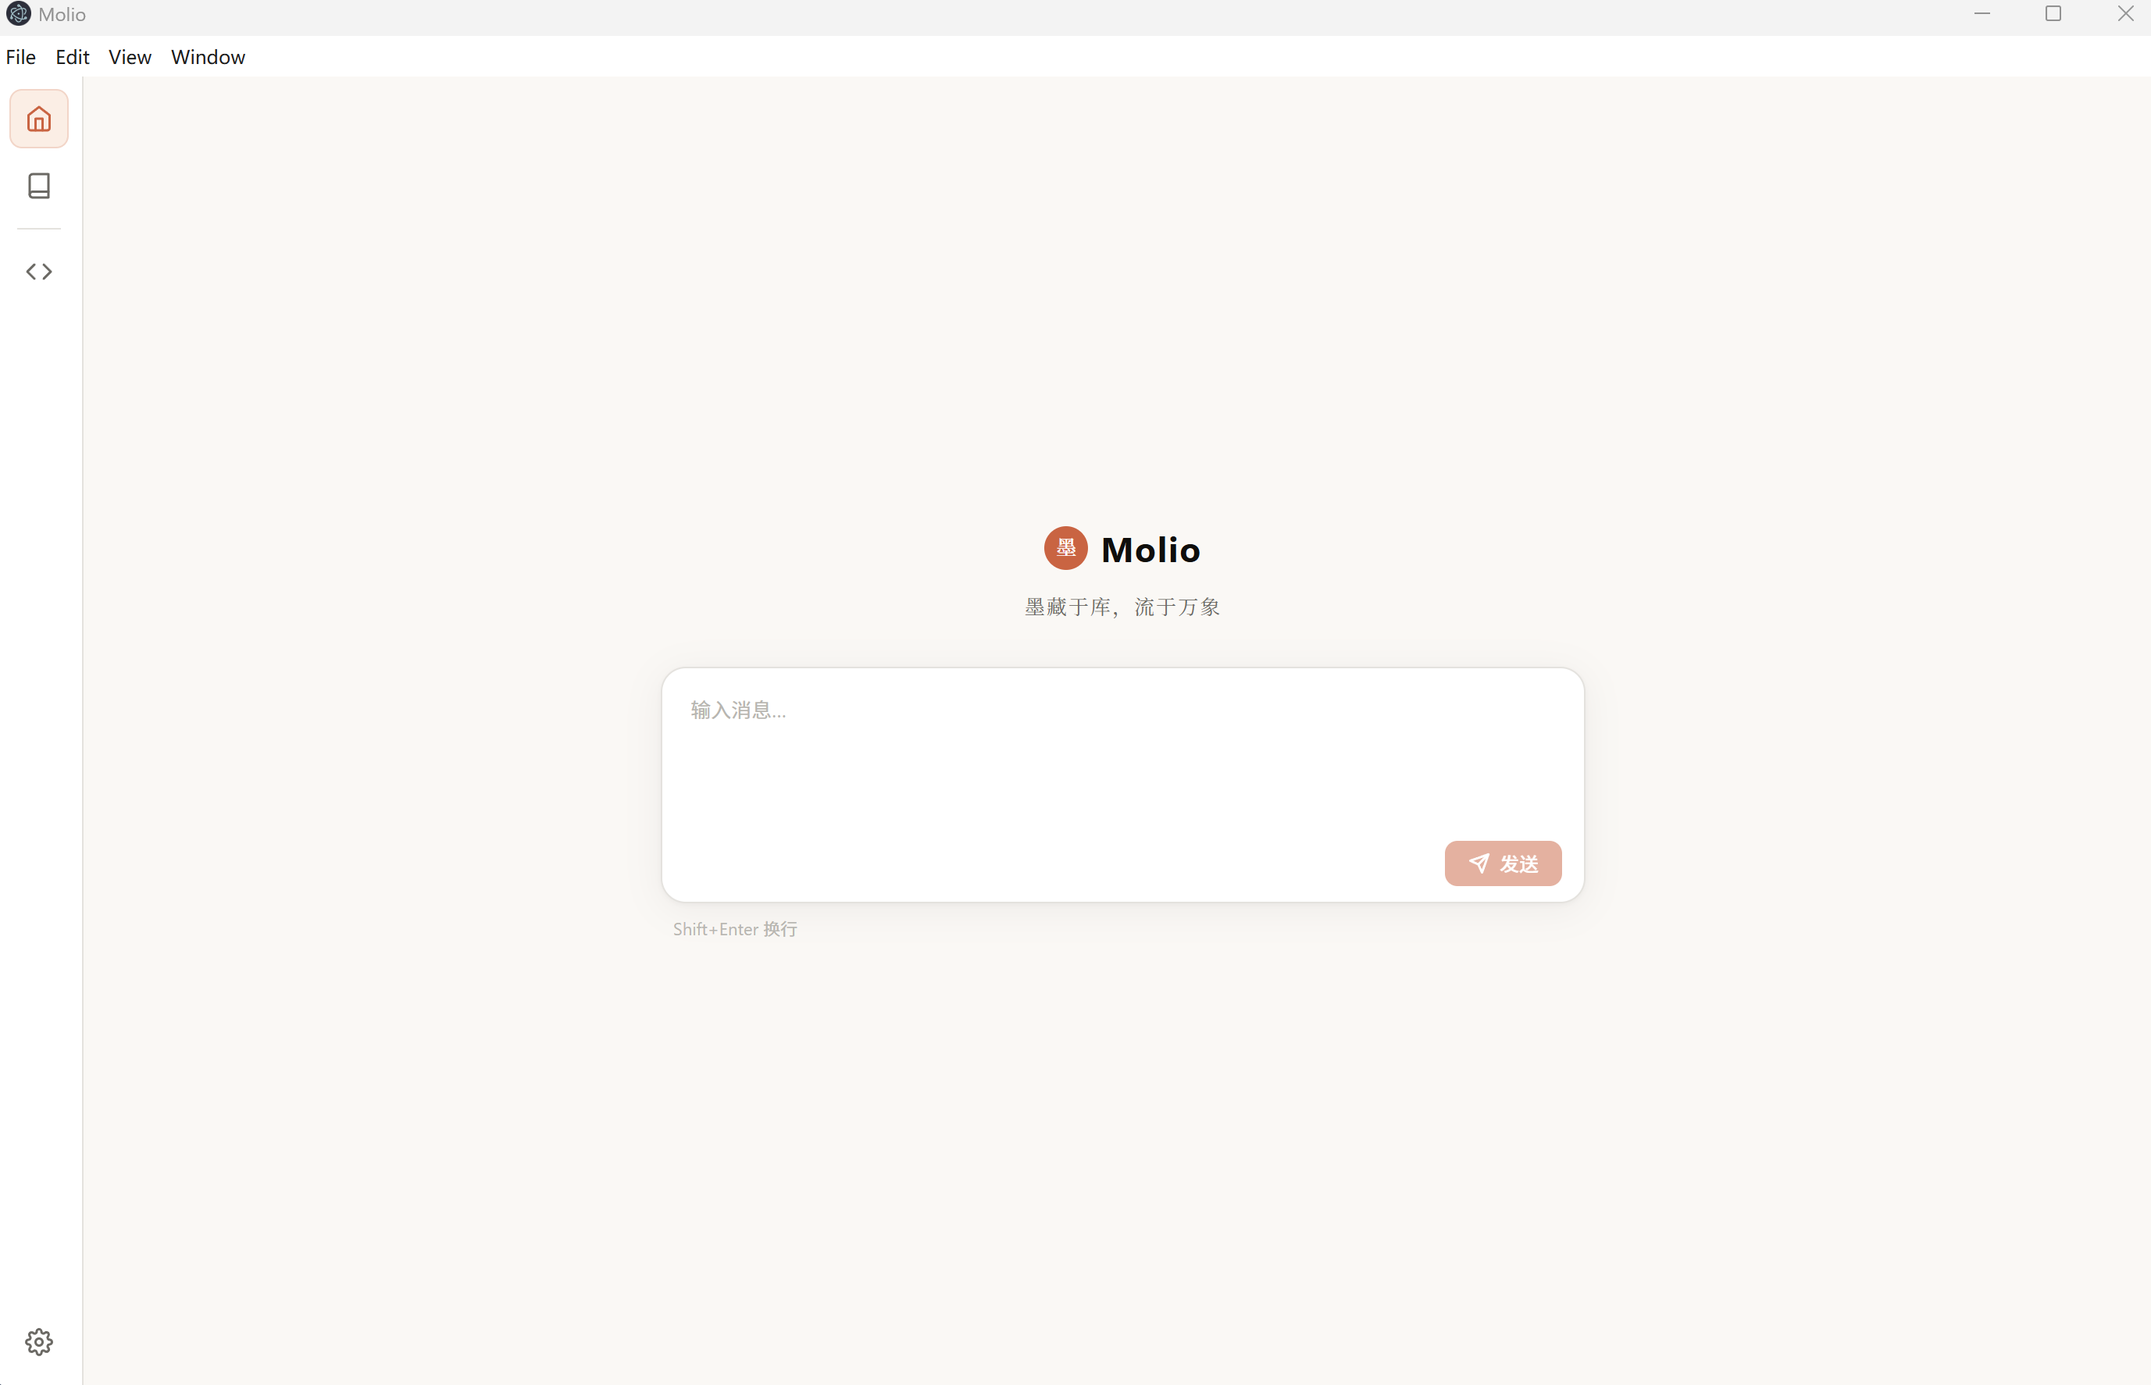
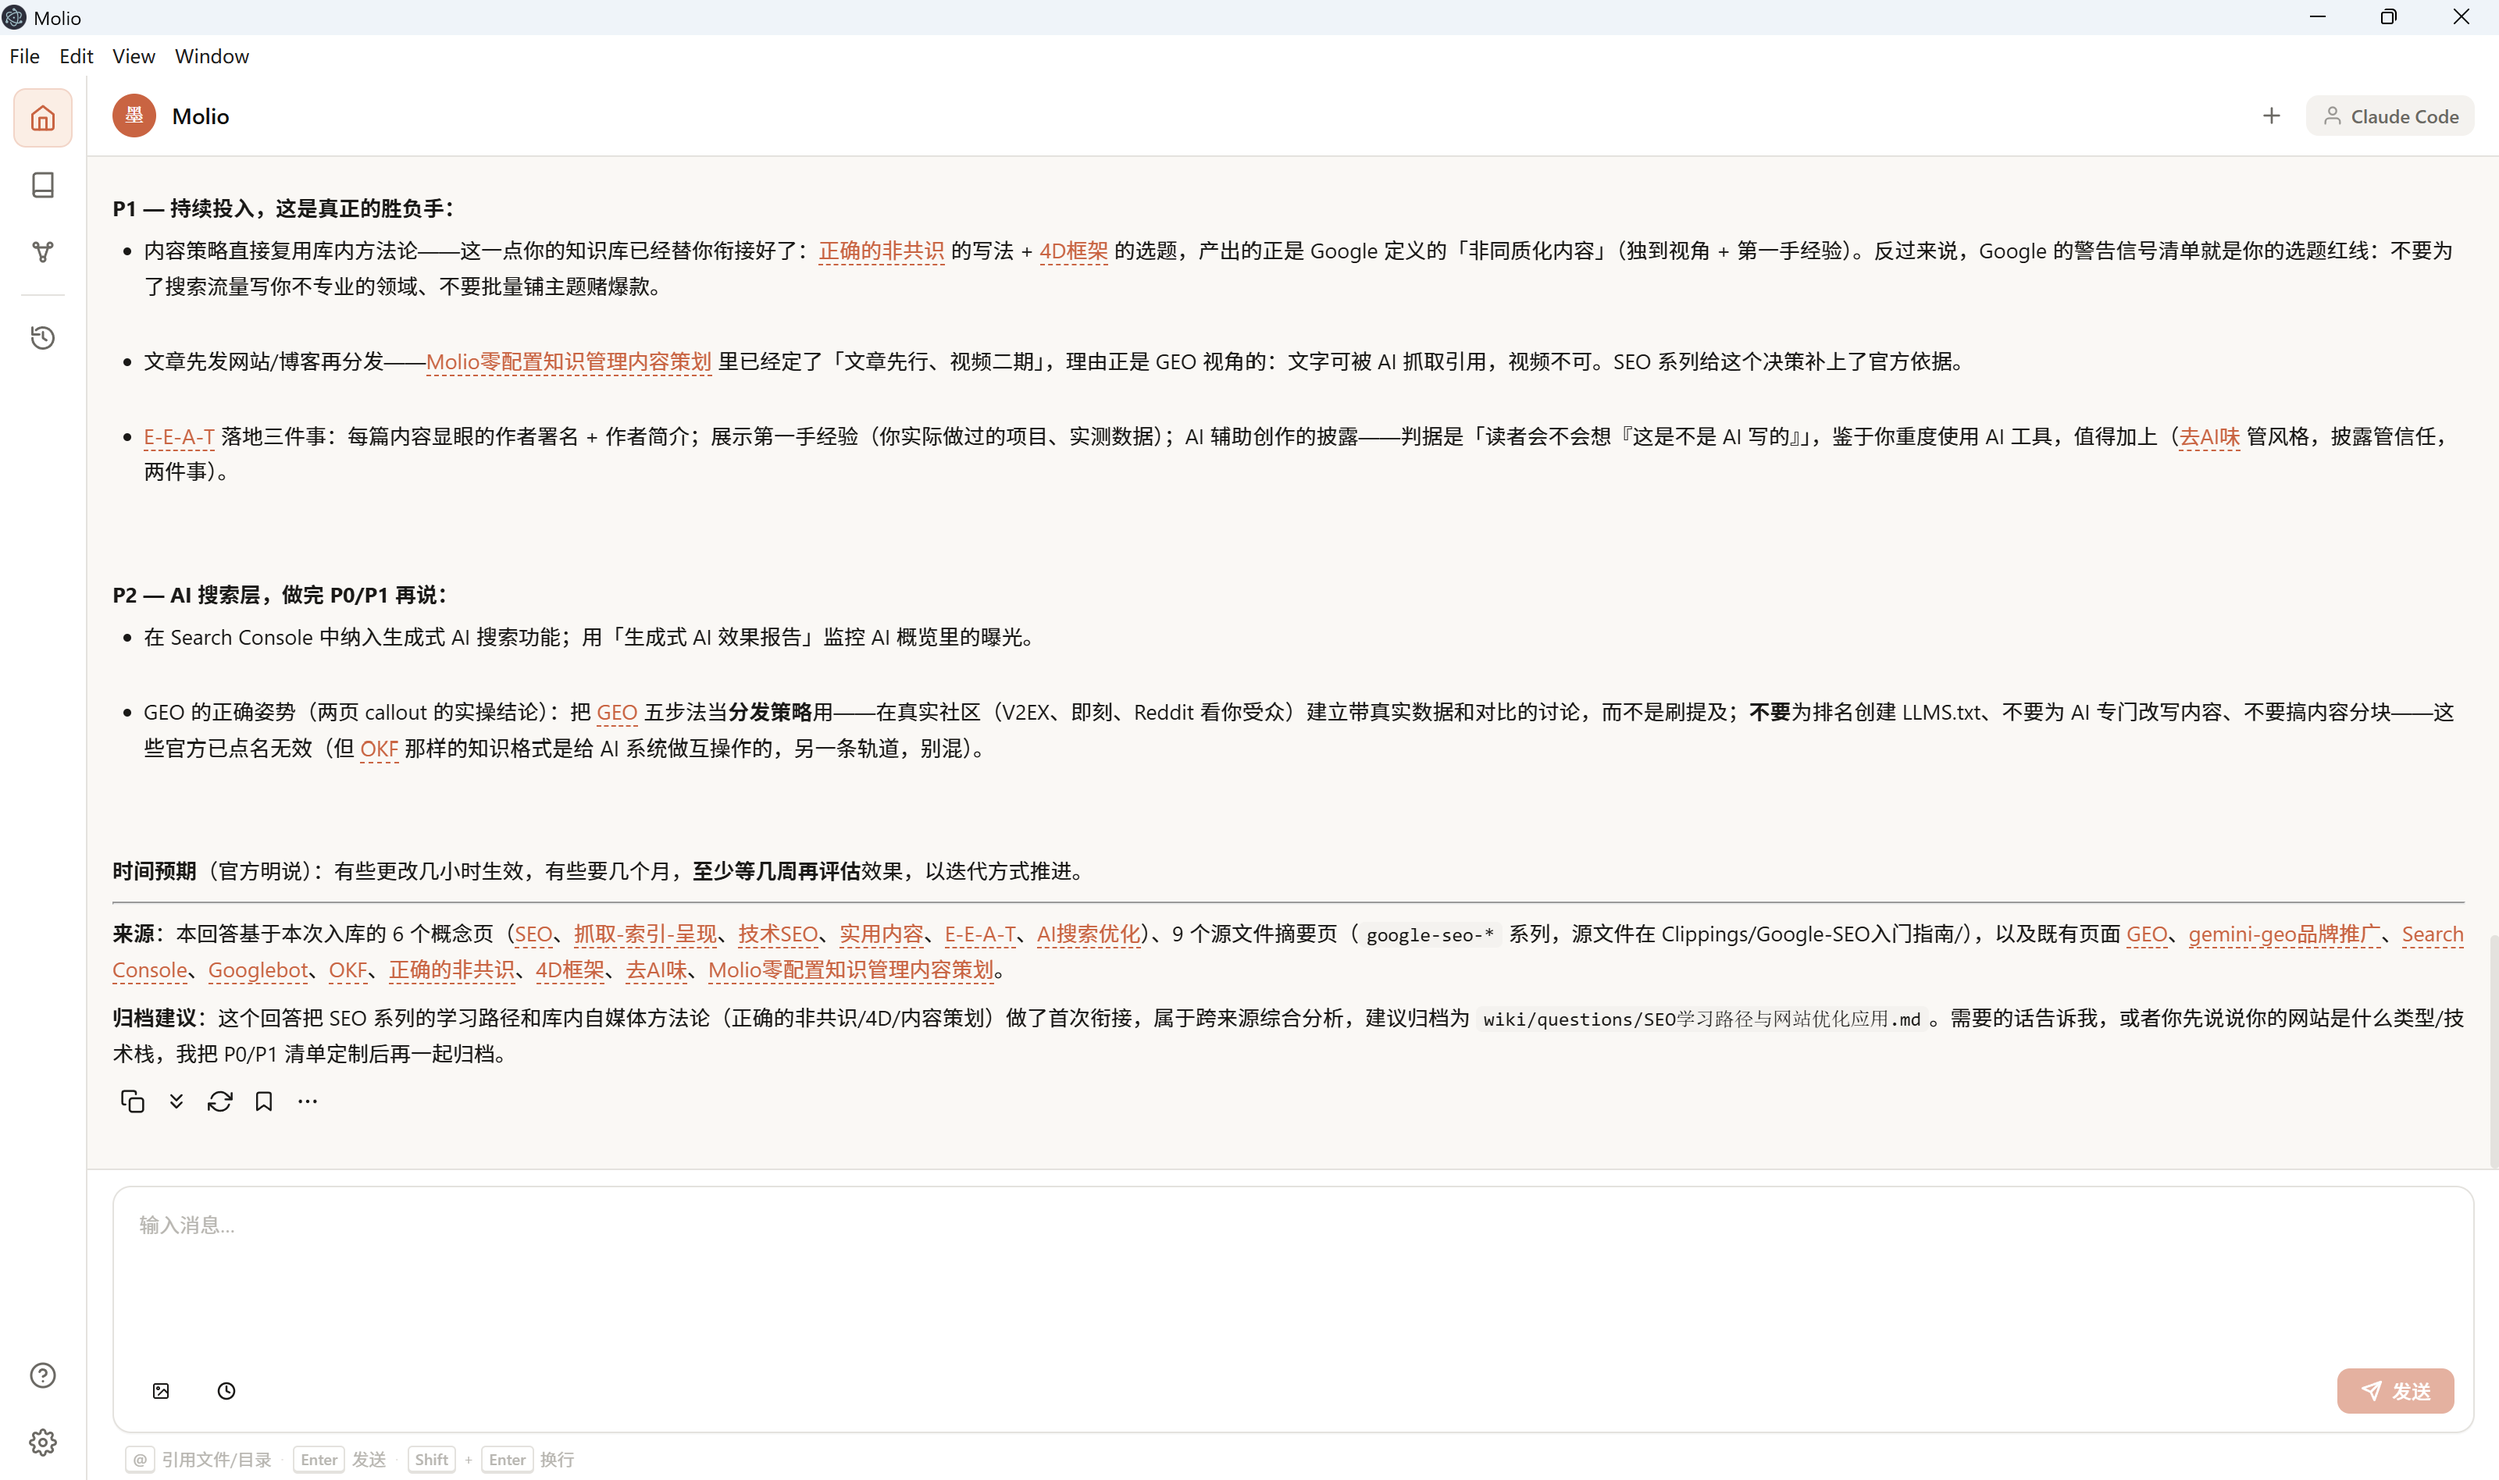
docs(readme): README 增加资治通鉴知识库演示视频，截图区重构
- 简介段后新增 landing page 资治通鉴视频（molio.cn 已部署，GitHub 可内嵌播放）
- 截图区：修复失效的 Editor 坏图（Layout%20.png 早已不在仓库），
  换成知识图谱 kg-graph.webp；知识库截图换新版 wiki_knowledge.webp
- AI 对话截图替换为真实对话画面
- README_zh.md 同步同样的视频块与截图区调整

diff --git a/README.md b/README.md
@@ -17,6 +17,14 @@
 
 Generic chatbots draw on the internet at large. Molio draws on your library. It is a **local-first** workbench that plugs Claude Code, Codex, and other AI runtimes into your Obsidian vault: they read what you have accumulated, research, analyze, and create, then write the results back into the vault. The longer you use it, the better it knows you. Everything runs on your machine, never through a third-party server.
 
+<div align="center">
+
+<video src="https://molio.cn/videos/zizhitongjian-overview.mp4" controls width="100%"></video>
+
+<sub>One book, one knowledge universe — 1,362 years of history from the *Zizhi Tongjian*, organized by Molio into an AI-explorable knowledge system</sub>
+
+</div>
+
 ### 🌟 Why Molio?
 
 | Feature | Description |
@@ -53,16 +61,16 @@ A single Molio instance can serve multiple channels in parallel. Most channels c
       <sub>AI Chat: Multi-agent support with streaming responses</sub>
     </td>
     <td width="50%" align="center">
-      <img src="docs/img/wiki_knowledge.png" alt="Knowledge Base" width="100%" style="border-radius: 8px;" />
+      <img src="apps/landing-page/images/wiki_knowledge.webp" alt="Knowledge Base" width="100%" style="border-radius: 8px;" />
       <br/>
       <sub>Knowledge Base: Vault file tree with Markdown rendering</sub>
     </td>
   </tr>
   <tr>
     <td width="50%" align="center">
-      <img src="docs/img/Layout%20.png" alt="Editor" width="100%" style="border-radius: 8px;" />
+      <img src="apps/landing-page/images/kg-graph.webp" alt="Knowledge Graph" width="100%" style="border-radius: 8px;" />
       <br/>
-      <sub>Editor: Split-pane with real-time preview</sub>
+      <sub>Knowledge Graph: Visual map of your knowledge connections</sub>
     </td>
     <td width="50%" align="center">
       <img src="docs/img/publish.png" alt="Publishing" width="100%" style="border-radius: 8px;" />

diff --git a/README_zh.md b/README_zh.md
@@ -17,6 +17,14 @@
 
 别再和每一个 AI 从零开始。Molio 把你的笔记、文档和项目经验变成一个会成长的知识空间：Claude Code / Codex 等 Agent 带着你的背景研究、写作、问答、分析，产出写回库，越用越懂你的事。所有内容存在你自己的电脑上，不经过任何第三方服务器。
 
+<div align="center">
+
+<video src="https://molio.cn/videos/zizhitongjian-overview.mp4" controls width="100%"></video>
+
+<sub>一本书，一个知识宇宙 —《资治通鉴》1362 年史料 · 由 Molio 整理成 AI 可探索的知识体系</sub>
+
+</div>
+
 ### 🌟 核心能力
 
 | 功能 | 说明 |
@@ -53,16 +61,16 @@
       <sub>AI 对话：多 Agent 支持，流式响应</sub>
     </td>
     <td width="50%" align="center">
-      <img src="docs/img/wiki_knowledge.png" alt="知识库" width="100%" style="border-radius: 8px;" />
+      <img src="apps/landing-page/images/wiki_knowledge.webp" alt="知识库" width="100%" style="border-radius: 8px;" />
       <br/>
       <sub>知识库：Vault 文件树管理与 Markdown 渲染</sub>
     </td>
   </tr>
   <tr>
     <td width="50%" align="center">
-      <img src="docs/img/Layout%20.png" alt="排版编辑器" width="100%" style="border-radius: 8px;" />
+      <img src="apps/landing-page/images/kg-graph.webp" alt="知识图谱" width="100%" style="border-radius: 8px;" />
       <br/>
-      <sub>排版编辑器：左右分栏实时预览，主题/字体/颜色可调</sub>
+      <sub>知识图谱：可视化浏览知识关联与结构</sub>
     </td>
     <td width="50%" align="center">
       <img src="docs/img/publish.png" alt="多平台发布" width="100%" style="border-radius: 8px;" />
